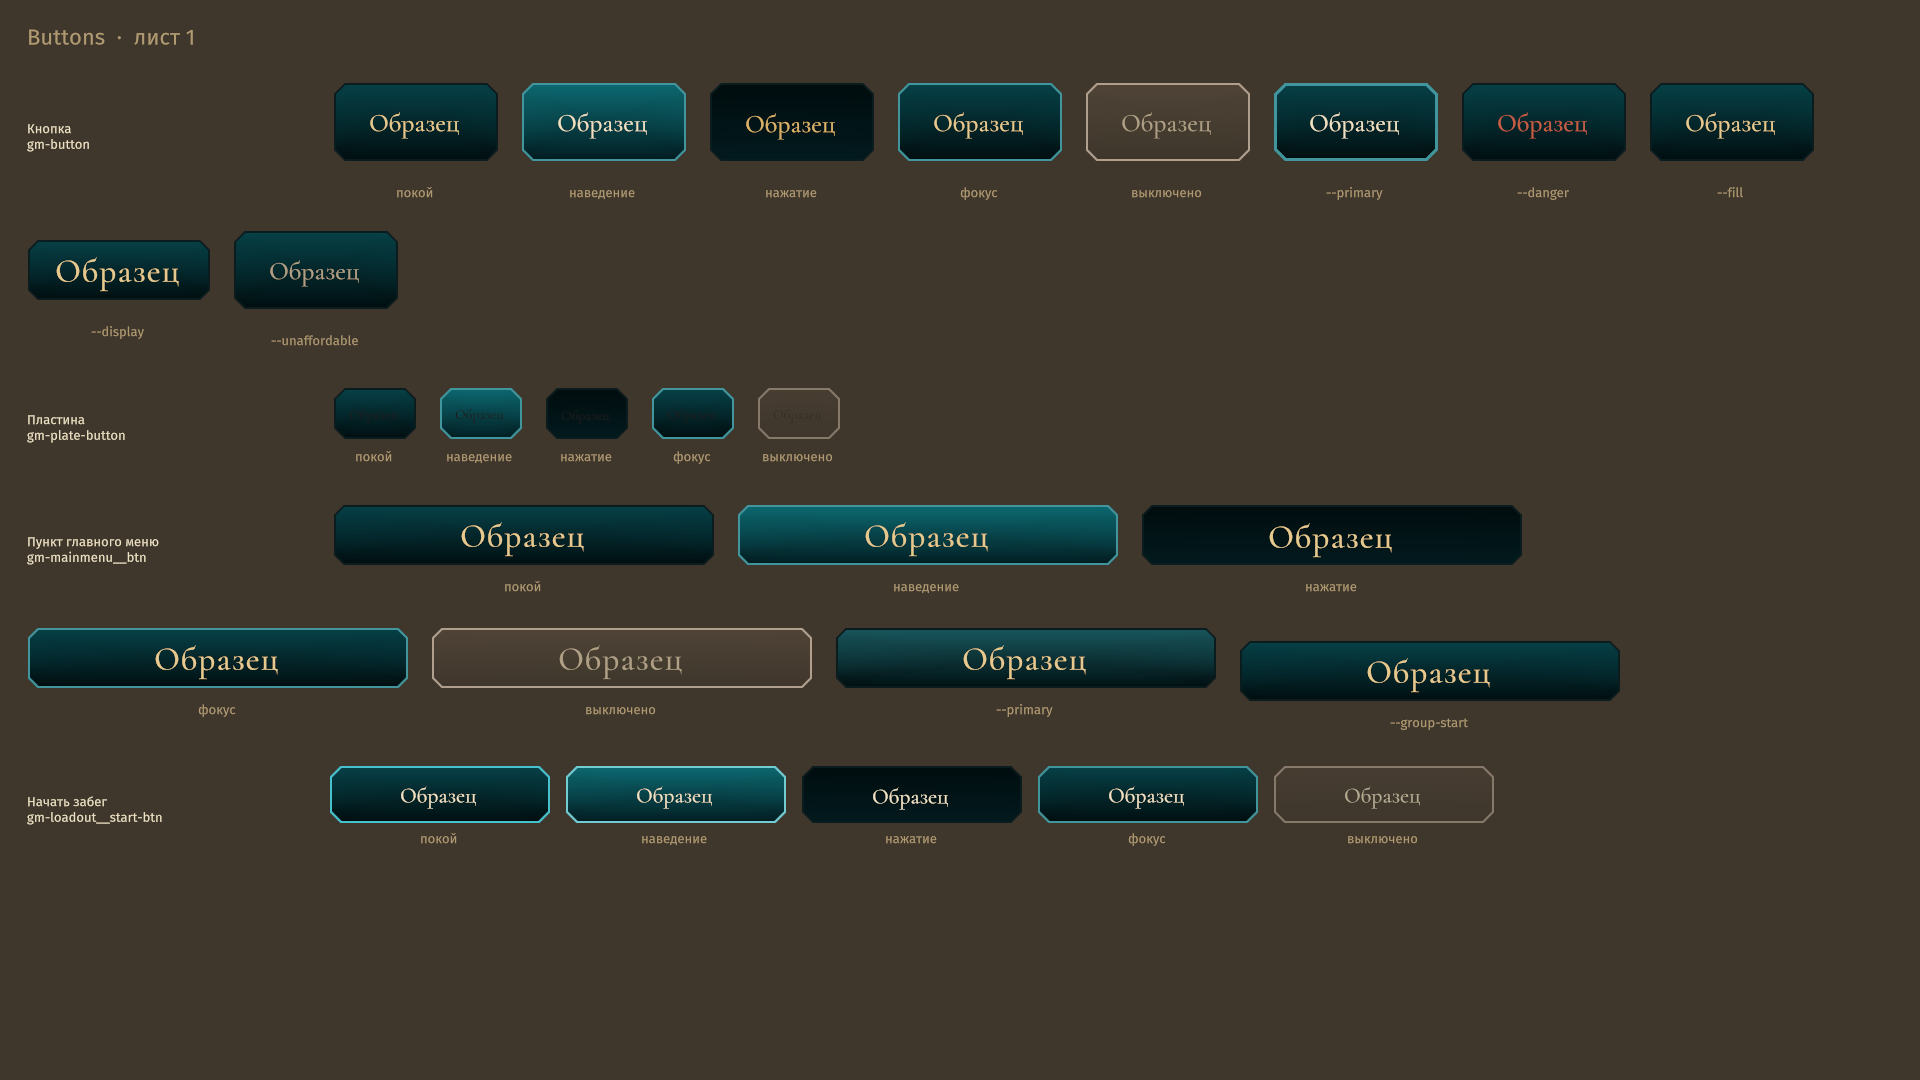
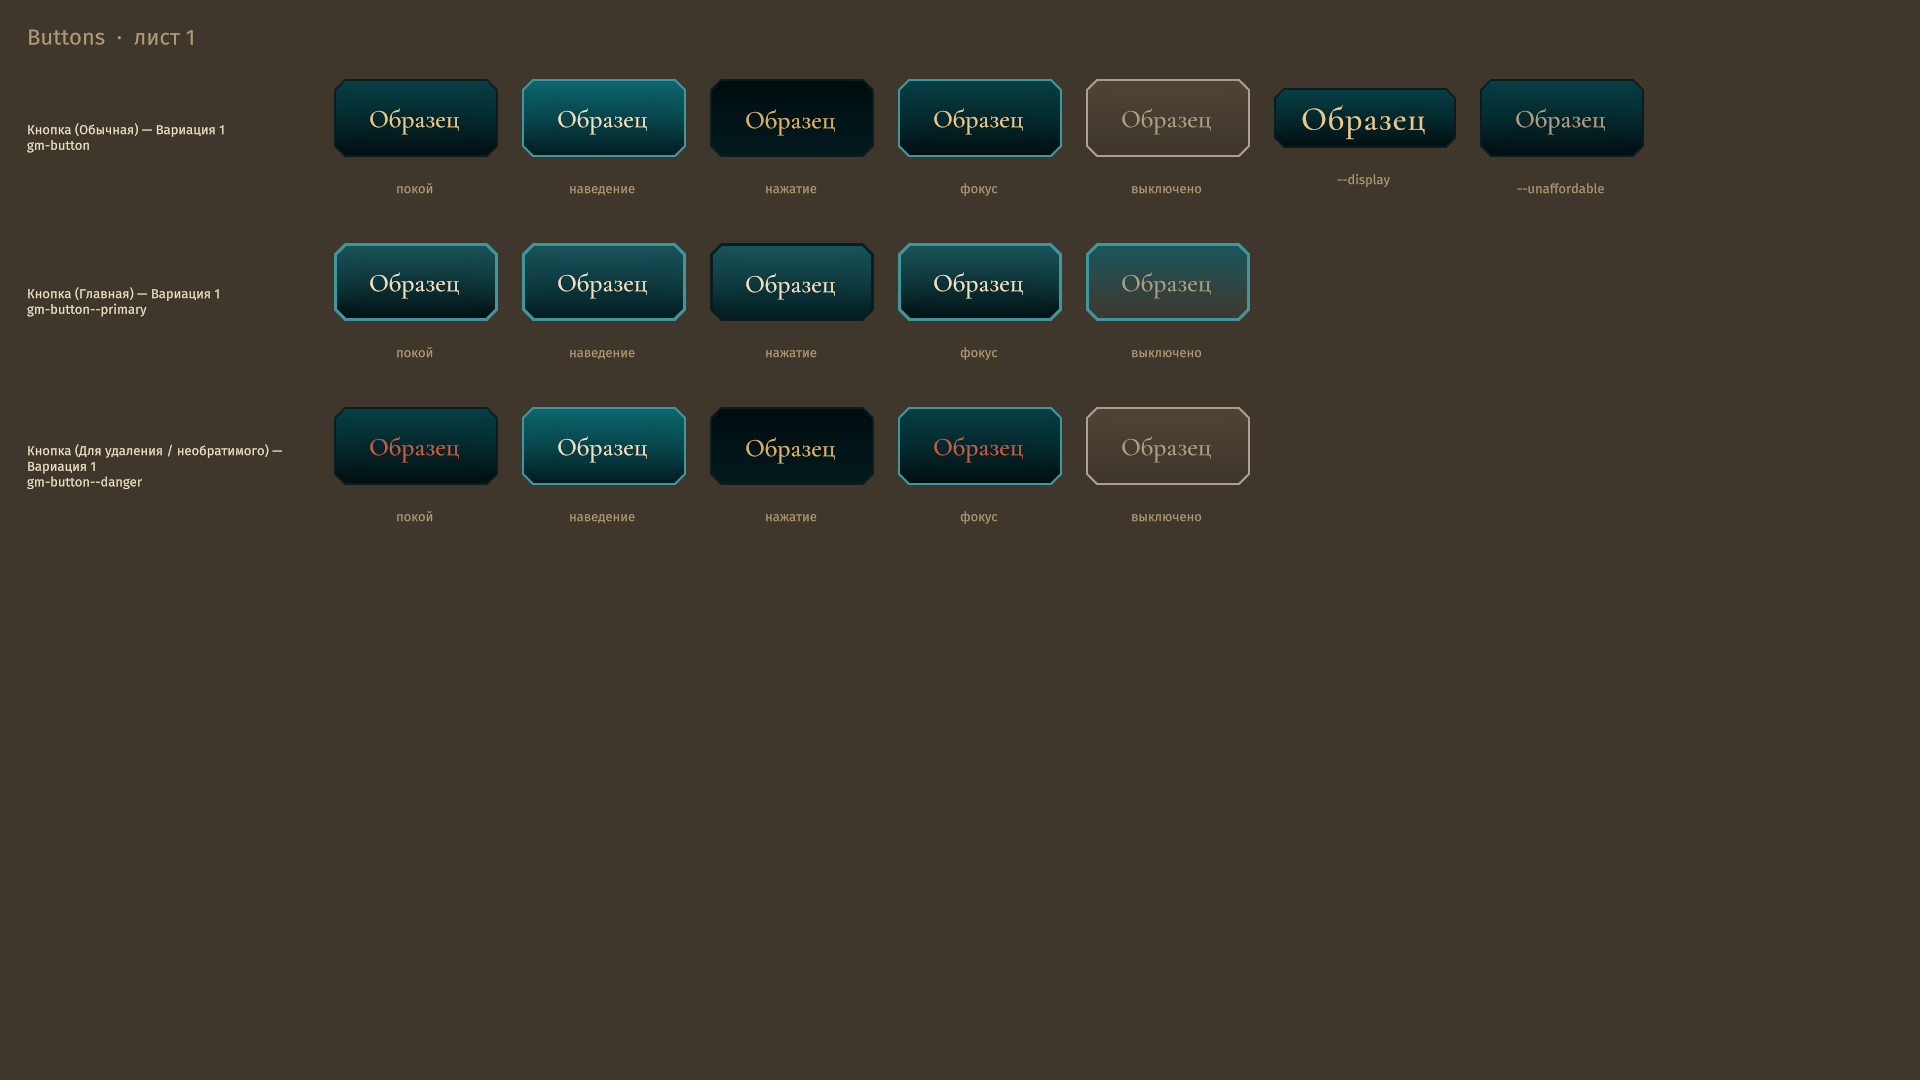
refactor(ui): buttons become a set of roles instead of a list of places
«У нас должны быть вариации кнопок. Кнопка 1, Кнопка 2, Кнопка 3. Мы
вставляем их куда надо. А вот "пункт главного меню", "начать забег" и
"пластина" — это зачем?» (06.08.2026)

Претензия по делу: реестр был переписью дерева, а не проектом набора. Шесть
записей из десяти значили «кнопка вот на этом экране» — привязка к месту
вместо роли.

Осталось три роли: Обычная, Главная, Для удаления. Шесть экранных классов
снесены, и каждый оказался РАСКЛАДКОЙ, а не видом: ширина, отступы,
выравнивание, растяжение в ряду. Раскладывает теперь контейнер
(.gm-mainmenu__buttons > .gm-button и родня), кнопка остаётся кнопкой.
Модификатор --fill был тем же самым в чистом виде — flex-grow, притворявшийся
вариантом кнопки.

Заодно вскрылось, что Главная выглядела двояко: в меню заливкой (свой класс),
в остальных одиннадцати местах только каймой. Заливка перенесена в общее
правило — роль обязана читаться одинаково везде, иначе она не роль.

Пластина осталась в реестре с флагом Technical: от неё наследует вкладка, и
гейт обязан видеть цепочку, но в наборе для сборки экранов ей места нет.

diff --git a/Assets/_Project/Scripts/UI/Components/UiComponentRegistry.cs b/Assets/_Project/Scripts/UI/Components/UiComponentRegistry.cs
@@ -64,18 +64,31 @@ namespace Guildmaster.UI.Components
         /// </remarks>
         public string Base { get; }
 
+        /// <summary>
+        /// Техническая форма: существует в коде, но в наборе для сборки экранов её нет.
+        /// </summary>
+        /// <remarks>
+        /// Ровно один случай — <c>gm-plate-button</c>: контрол рисует фигуру мешем, потому что USS не
+        /// умеет градиент, и голым в игре не встречается никогда. Из реестра его убрать нельзя (от
+        /// него наследует вкладка, и гейт обязан видеть цепочку), а в витрине ему делать нечего:
+        /// «А вот "пластина" — это зачем?» (Макс, 06.08.2026). Отсюда флаг, а не удаление.
+        /// </remarks>
+        public bool Technical { get; }
+
         /// <summary>Элемент принимает указатель: по нему кликают, он звучит, он обязан иметь состояния.</summary>
         public bool IsInteractive => Required != UiElementState.None;
 
         internal UiComponentEntry(string label, string block, UiComponentGroup group,
-                                  UiElementState required, string baseBlock, string[] variants)
+                                  UiElementState required, string baseBlock, string[] variants,
+                                  bool technical = false)
         {
             Label    = label;
             Block    = block;
             Group    = group;
             Required = required;
-            Base     = baseBlock;
-            Variants = variants ?? Array.Empty<string>();
+            Base      = baseBlock;
+            Technical = technical;
+            Variants  = variants ?? Array.Empty<string>();
         }
     }
 
@@ -144,18 +157,26 @@ namespace Guildmaster.UI.Components
         private static readonly UiComponentEntry[] Entries =
         {
             // --- КНОПКИ ---
-            New("Кнопка", "gm-button", UiComponentGroup.Buttons, Interactive, null,
-                "gm-button--primary", "gm-button--danger", "gm-button--fill", "gm-button--display",
-                "gm-button--unaffordable"),
-            New("Пластина", "gm-plate-button", UiComponentGroup.Buttons, Interactive, null),
-            New("Пункт главного меню", "gm-mainmenu__btn", UiComponentGroup.Buttons, Interactive, OfButton,
-                "gm-mainmenu__btn--primary", "gm-mainmenu__btn--group-start"),
-            New("Начать забег", "gm-loadout__start-btn", UiComponentGroup.Buttons, Interactive, OfPlate),
-            New("Сортировка инвентаря", "gm-loadout__sort", UiComponentGroup.Buttons, Interactive, OfButton),
-            New("Вариант события", "gm-event-choice", UiComponentGroup.Buttons, Interactive, OfButton),
-            New("Слот профиля", "gm-profile__slot-pick", UiComponentGroup.Buttons, Interactive, OfButton,
-                "gm-profile__slot-pick--active"),
-            New("Слот гильдии", "gm-guilds__slot-pick", UiComponentGroup.Buttons, Interactive, OfButton),
+            // НАБОР, А НЕ СПИСОК МЕСТ (правило Макса 06.08.2026). Кнопка одна, у неё РОЛЬ и РАЗМЕР,
+            // а экран берёт нужную и раскладывает её у себя. Прежде здесь стояли пять записей вида
+            // «пункт главного меню», «начать забег», «слот профиля» — то есть привязки к экранам,
+            // и витрина показывала не набор, из которого собирают, а перепись того, что уже собрано.
+            // Дословно: «У нас должны быть вариации кнопок. Кнопка 1, Кнопка 2, Кнопка 3. Мы
+            // вставляем их куда надо».
+            //
+            // «Вариация N» в подписи — задел: вторая вариация роли появится, и ей найдётся номер, а
+            // не новое существительное. Роль пишется в скобках, потому что имя обязано отвечать на
+            // вопрос «какую брать сюда» без заглядывания в картинку.
+            New("Кнопка (Обычная) — Вариация 1", "gm-button", UiComponentGroup.Buttons, Interactive, null,
+                "gm-button--display", "gm-button--unaffordable"),
+            New("Кнопка (Главная) — Вариация 1", "gm-button--primary", UiComponentGroup.Buttons,
+                Interactive, OfButton),
+            // Единственная роль, которую держит НЕОБРАТИМОСТЬ, а не иерархия действий: красный тут
+            // значит «отменить будет нечем», а не «важнее соседней кнопки».
+            New("Кнопка (Для удаления / необратимого) — Вариация 1", "gm-button--danger",
+                UiComponentGroup.Buttons, Interactive, OfButton),
+            NewTechnical("Пластина (форма, не элемент набора)", "gm-plate-button", UiComponentGroup.Buttons,
+                Interactive),
 
             // --- ВКЛАДКИ И ЧИПЫ ---
             New("Вкладка", "gm-tab", UiComponentGroup.Tabs, Interactive, OfPlate, "gm-tab--active"),
@@ -255,5 +276,10 @@ namespace Guildmaster.UI.Components
                                             UiElementState required, string baseBlock,
                                             params string[] variants)
             => new(label, block, group, required, baseBlock, variants);
+
+        /// <summary>Форма, известная реестру, но не входящая в набор для сборки экранов.</summary>
+        private static UiComponentEntry NewTechnical(string label, string block, UiComponentGroup group,
+                                                     UiElementState required)
+            => new(label, block, group, required, null, null, technical: true);
     }
 }

diff --git a/Assets/_Project/Scripts/DevTools/UiSampleFactory.cs b/Assets/_Project/Scripts/DevTools/UiSampleFactory.cs
@@ -34,16 +34,11 @@ namespace Guildmaster.DevTools
         {
             // Кнопки. В UXML экраны пишут `<gm:PlateButton class="gm-button ...">`: класс несёт вид,
             // контрол — форму пластины. Поэтому образец обязан иметь оба.
+            // РОЛИ. Класс роли всегда идёт вместе с gm-button: роль уточняет кнопку, а не заменяет её.
             ["gm-button"]              = () => PlateBtn(),
-            ["gm-plate-button"]        = () => new PlateButton { text = Sample },   // голая форма: в игре одна не встречается
-            ["gm-mainmenu__btn"]       = () => PlateBtn("gm-mainmenu__btn", "gm-button--display"),
-            ["gm-event-choice"]        = () => PlateBtn("gm-event-choice"),         // EventScreenView.cs:74
-            ["gm-profile__slot-pick"]  = () => PlateBtn("gm-profile__slot-pick"),   // ProfileScreenView.cs:165
-            ["gm-guilds__slot-pick"]   = () => PlateBtn("gm-guilds__slot-pick"),    // GuildSelectScreenView.cs:100
-            ["gm-loadout__sort"]       = () => Btn("gm-loadout__sort"),             // LoadoutInventoryScreen.uxml:36
-
-            // Пластина БЕЗ gm-button — так стоит в разметке, и вид у неё оттого другой.
-            ["gm-loadout__start-btn"]  = () => Plate("gm-loadout__start-btn"),      // RunModeBar.uxml:53
+            ["gm-button--primary"]     = () => PlateBtn("gm-button--primary"),
+            ["gm-button--danger"]      = () => PlateBtn("gm-button--danger"),
+            ["gm-plate-button"]        = () => new PlateButton { text = Sample },   // техническая форма
 
             // Вкладки и чипы.
             ["gm-tab"]                 = () => Plate("gm-tab"),                     // SettingsScreen.uxml:13

diff --git a/Assets/_Project/Scripts/UI/ProfileScreenView.cs b/Assets/_Project/Scripts/UI/ProfileScreenView.cs
@@ -162,8 +162,9 @@ namespace Guildmaster.UI
 
                     var pick = new Components.PlateButton { text = slot.Name };
                     pick.AddToClassList("gm-button");
-                    pick.AddToClassList("gm-profile__slot-pick");
-                    if (slot.IsActive) pick.AddToClassList("gm-profile__slot-pick--active");
+                    // Активный слот — ГЛАВНАЯ кнопка: «текущий профиль» и «главное действие строки»
+                    // здесь одно и то же, и отдельный класс означал бы то же самое вторым способом.
+                    if (slot.IsActive) pick.AddToClassList("gm-button--primary");
                     pick.clicked += () => onSelect?.Invoke(slot.Id);
                     row.Add(pick);
 

diff --git a/Assets/_Project/Scripts/DevTools/UiContactSheet.cs b/Assets/_Project/Scripts/DevTools/UiContactSheet.cs
@@ -200,7 +200,9 @@ namespace Guildmaster.DevTools
             var list = new List<UiComponentEntry>();
             foreach (UiComponentEntry entry in UiComponentRegistry.All)
             {
-                if (entry.Group == group) list.Add(entry);
+                // Техническая форма в витрину не идёт: набор показывает то, ИЗ ЧЕГО собирают экраны,
+                // а не всё, что существует в коде.
+                if (entry.Group == group && !entry.Technical) list.Add(entry);
             }
             return list;
         }

diff --git a/Assets/_Project/Scripts/UI/CampScreenView.cs b/Assets/_Project/Scripts/UI/CampScreenView.cs
@@ -51,7 +51,6 @@ namespace Guildmaster.UI
                 CampAction action = CampActions[i];
                 var btn = new PlateButton { text = L(LabelKey(action), Fallback(action)) };
                 btn.AddToClassList("gm-button");
-                btn.AddToClassList("gm-event-choice");
                 btn.clicked += () => OnAction(action);
                 actions?.Add(btn);
                 buttons[i] = (action, btn);

diff --git a/Assets/_Project/Scripts/UI/GuildSelectScreenView.cs b/Assets/_Project/Scripts/UI/GuildSelectScreenView.cs
@@ -97,7 +97,6 @@ namespace Guildmaster.UI
 
                     var pick = new Components.PlateButton { name = "btn-guild-" + entry.Id, text = label };
                     pick.AddToClassList("gm-button");
-                    pick.AddToClassList("gm-guilds__slot-pick");
                     string captured = entry.Id;
                     pick.clicked += () => onPick?.Invoke(captured);
                     row.Add(pick);

diff --git a/Assets/_Project/Scripts/UI/EventScreenView.cs b/Assets/_Project/Scripts/UI/EventScreenView.cs
@@ -71,7 +71,6 @@ namespace Guildmaster.UI
                 string result = L(ev.ChoiceResultKey(i), string.Empty);
                 var btn = new PlateButton(() => { onChosen?.Invoke(index); ShowResult(result); }) { text = label };
                 btn.AddToClassList("gm-button");
-                btn.AddToClassList("gm-event-choice");
                 choicesBox?.Add(btn);
             }
 
